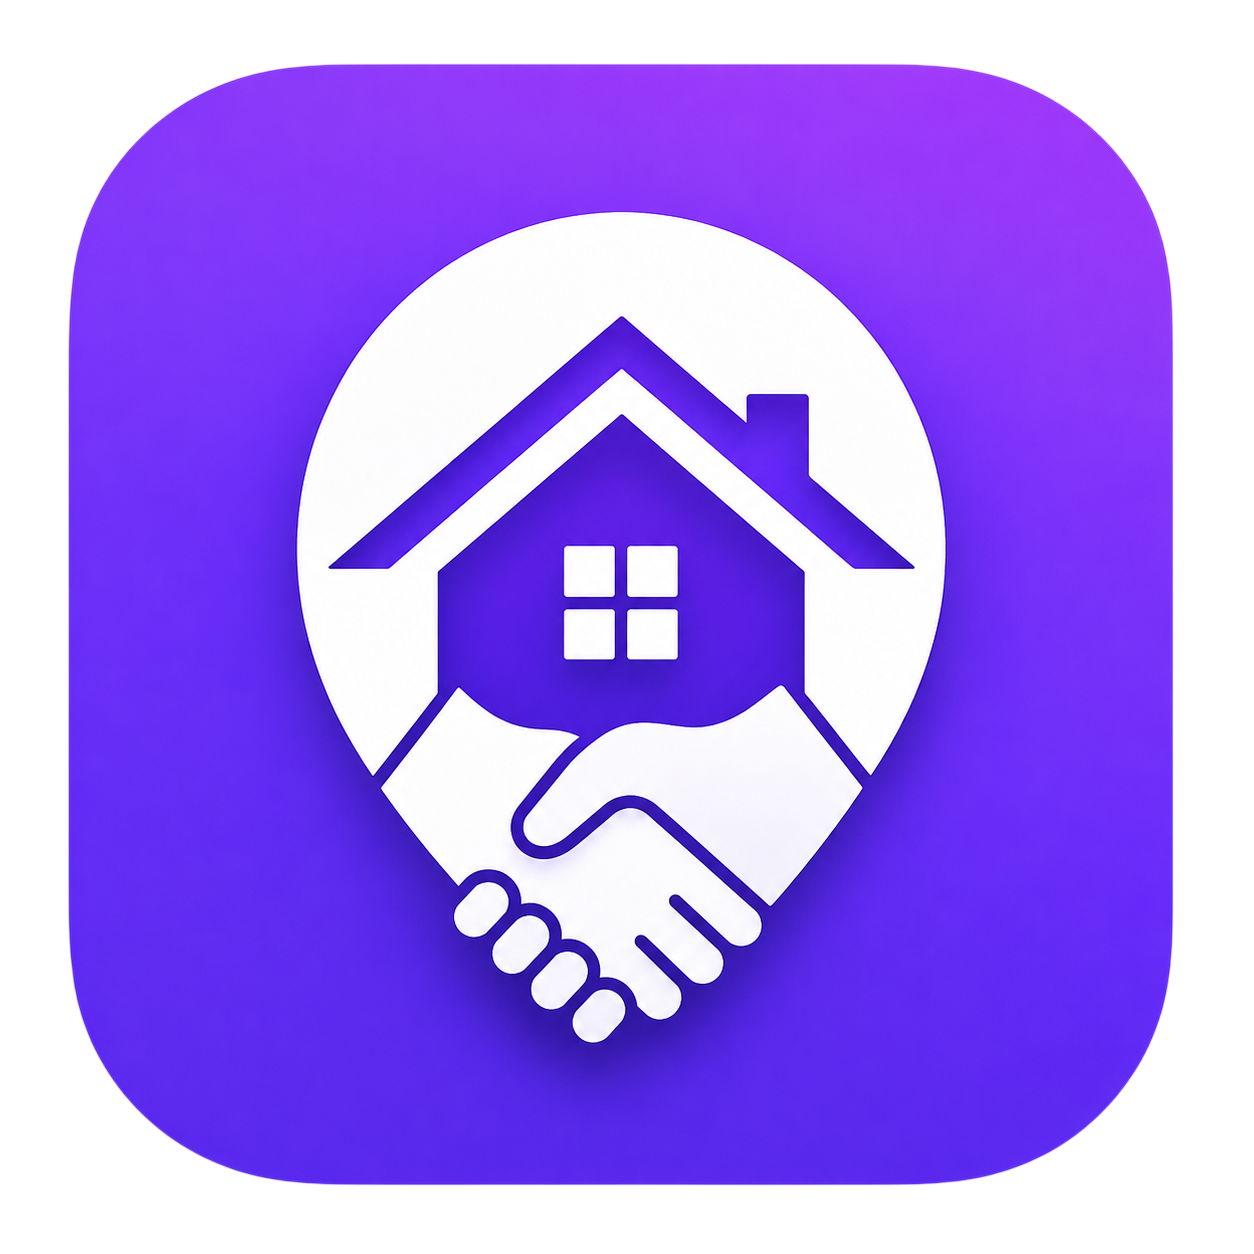
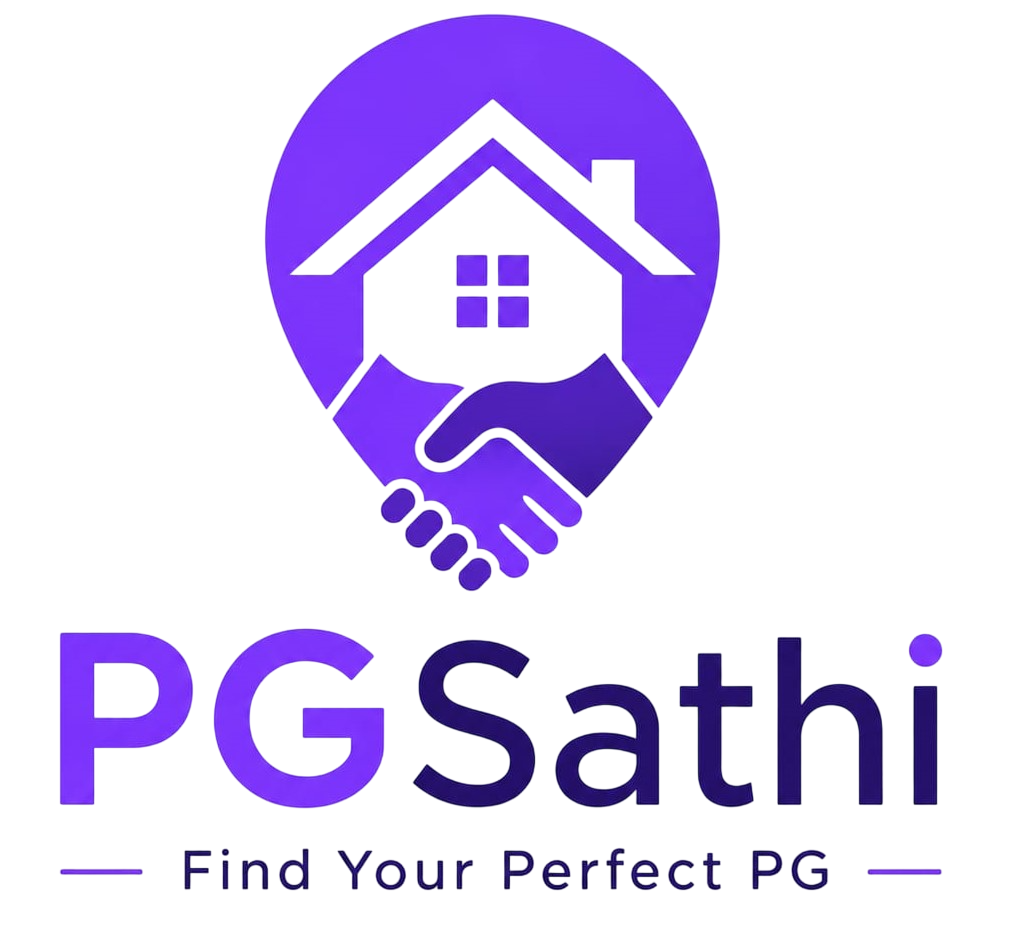
feat: implement authentication pages, dashboard layouts, and login functionality

diff --git a/app/(auth)/register/page.tsx b/app/(auth)/register/page.tsx
@@ -2,6 +2,8 @@
 
 import { useState, Suspense } from "react";
 import Link from "next/link";
+import Image from "next/image";
+import logoImg from "@/app/assets/logo/logo.png";
 import { signIn } from "next-auth/react";
 import {
   Home,
@@ -106,12 +108,14 @@ function RegisterContent() {
 
         {/* Logo */}
         <Link href="/" className="relative z-10 flex items-center gap-3 group">
-          <div className="w-11 h-11 bg-gradient-to-br from-violet-500 to-orange-500 rounded-2xl flex items-center justify-center shadow-lg group-hover:scale-105 transition-transform">
-            <Home size={22} color="white" />
-          </div>
-          <span className="font-extrabold text-2xl text-white tracking-tight">
-            PGSathi
-          </span>
+          <Image 
+            src={logoImg} 
+            alt="PGSathi Logo" 
+            width={160}
+            height={56}
+            priority
+            className="h-14 w-auto object-contain brightness-0 invert group-hover:scale-105 transition-transform" 
+          />
         </Link>
 
         {/* Center */}
@@ -160,11 +164,18 @@ function RegisterContent() {
       {/* ── Right Panel ─────────────────────────────────────────── */}
       <div className="flex-1 flex flex-col justify-center items-center px-5 py-10 sm:px-10 lg:px-16">
         {/* Mobile Logo */}
-        <Link href="/" className="lg:hidden flex items-center gap-2.5 mb-8 group">
-          <div className="w-9 h-9 bg-gradient-to-br from-violet-600 to-orange-500 rounded-xl flex items-center justify-center shadow-md group-hover:scale-105 transition-transform">
-            <Home size={18} color="white" />
-          </div>
-          <span className="font-extrabold text-xl text-neutral-900">PGSathi</span>
+        <Link
+          href="/"
+          className="lg:hidden flex items-center gap-2.5 mb-8 group"
+        >
+          <Image 
+            src={logoImg} 
+            alt="PGSathi Logo" 
+            width={140}
+            height={48}
+            priority
+            className="h-10 w-auto object-contain mix-blend-multiply group-hover:scale-105 transition-transform" 
+          />
         </Link>
 
         <div className="w-full max-w-[420px]">
@@ -460,9 +471,14 @@ export default function RegisterPage() {
       fallback={
         <div className="min-h-screen flex items-center justify-center bg-neutral-50">
           <div className="flex flex-col items-center gap-3">
-            <div className="w-10 h-10 bg-gradient-to-br from-violet-600 to-orange-500 rounded-2xl flex items-center justify-center">
-              <Home size={20} color="white" />
-            </div>
+            <Image 
+              src={logoImg} 
+              alt="PGSathi Logo" 
+              width={140}
+              height={48}
+              priority
+              className="h-10 w-auto object-contain mix-blend-multiply" 
+            />
             <Loader2 size={24} className="animate-spin text-violet-600" />
           </div>
         </div>

diff --git a/app/(auth)/login/page.tsx b/app/(auth)/login/page.tsx
@@ -3,6 +3,8 @@
 import { useState, Suspense } from "react";
 import { useSearchParams } from "next/navigation";
 import Link from "next/link";
+import Image from "next/image";
+import logoImg from "@/app/assets/logo/logo.png";
 import { signIn } from "next-auth/react";
 import {
   Home,
@@ -149,12 +151,14 @@ function LoginContent() {
 
         {/* Logo */}
         <Link href="/" className="relative z-10 flex items-center gap-3 group">
-          <div className="w-11 h-11 bg-gradient-to-br from-violet-500 to-orange-500 rounded-2xl flex items-center justify-center shadow-lg group-hover:scale-105 transition-transform">
-            <Home size={22} color="white" />
-          </div>
-          <span className="font-extrabold text-2xl text-white tracking-tight">
-            PGSathi
-          </span>
+          <Image 
+            src={logoImg} 
+            alt="PGSathi Logo" 
+            width={160}
+            height={56}
+            priority
+            className="h-14 w-auto object-contain brightness-0 invert group-hover:scale-105 transition-transform" 
+          />
         </Link>
 
         {/* Center content */}
@@ -208,10 +212,14 @@ function LoginContent() {
           href="/"
           className="lg:hidden flex items-center gap-2.5 mb-8 group"
         >
-          <div className="w-9 h-9 bg-gradient-to-br from-violet-600 to-orange-500 rounded-xl flex items-center justify-center shadow-md group-hover:scale-105 transition-transform">
-            <Home size={18} color="white" />
-          </div>
-          <span className="font-extrabold text-xl text-neutral-900">PGSathi</span>
+          <Image 
+            src={logoImg} 
+            alt="PGSathi Logo" 
+            width={140}
+            height={48}
+            priority
+            className="h-10 w-auto object-contain mix-blend-multiply group-hover:scale-105 transition-transform" 
+          />
         </Link>
 
         <div className="w-full max-w-[420px]">
@@ -455,9 +463,14 @@ export default function LoginPage() {
       fallback={
         <div className="min-h-screen flex items-center justify-center bg-neutral-50">
           <div className="flex flex-col items-center gap-3">
-            <div className="w-10 h-10 bg-gradient-to-br from-violet-600 to-orange-500 rounded-2xl flex items-center justify-center">
-              <Home size={20} color="white" />
-            </div>
+            <Image 
+              src={logoImg} 
+              alt="PGSathi Logo" 
+              width={140}
+              height={48}
+              priority
+              className="h-10 w-auto object-contain mix-blend-multiply" 
+            />
             <Loader2 size={24} className="animate-spin text-violet-600" />
           </div>
         </div>

diff --git a/app/(auth)/forgot-password/page.tsx b/app/(auth)/forgot-password/page.tsx
@@ -2,6 +2,8 @@
 
 import { useState } from "react";
 import Link from "next/link";
+import Image from "next/image";
+import logoImg from "@/app/assets/logo/logo.png";
 import { Home, ArrowRight, Lock, CheckCircle } from "lucide-react";
 import { useRouter } from "next/navigation";
 
@@ -93,11 +95,15 @@ export default function ForgotPasswordPage() {
       <div className="hidden md:flex flex-col justify-center w-1/2 bg-primary-950 text-white p-12 lg:p-24 relative overflow-hidden">
         <div className="absolute inset-0 opacity-10" style={{ backgroundImage: "radial-gradient(circle at 2px 2px, white 1px, transparent 0)", backgroundSize: "32px 32px" }}></div>
         <div className="relative z-10">
-          <Link href="/" className="flex items-center gap-2 mb-12">
-            <div className="w-10 h-10 bg-gradient-to-br from-primary-500 to-secondary-500 rounded-xl flex items-center justify-center">
-              <Home size={24} color="white" />
-            </div>
-            <span className="font-extrabold text-2xl tracking-tight">PGSathi</span>
+          <Link href="/" className="flex items-center gap-2 mb-12 group">
+            <Image 
+              src={logoImg} 
+              alt="PGSathi Logo" 
+              width={160}
+              height={56}
+              priority
+              className="h-14 w-auto object-contain brightness-0 invert group-hover:scale-105 transition-transform" 
+            />
           </Link>
           <h1 className="text-4xl lg:text-5xl font-bold leading-tight mb-6 text-white">
             Securely reset your password.
@@ -113,11 +119,15 @@ export default function ForgotPasswordPage() {
         <div className="w-full max-w-md mx-auto">
           
           {/* Mobile Logo */}
-          <Link href="/" className="flex md:hidden items-center gap-2 mb-8 justify-center">
-            <div className="w-8 h-8 bg-gradient-to-br from-primary-600 to-secondary-600 rounded-lg flex items-center justify-center">
-              <Home size={20} color="white" />
-            </div>
-            <span className="font-extrabold text-xl text-primary-950">PGSathi</span>
+          <Link href="/" className="flex md:hidden items-center gap-2 mb-8 justify-center group">
+            <Image 
+              src={logoImg} 
+              alt="PGSathi Logo" 
+              width={140}
+              height={48}
+              priority
+              className="h-10 w-auto object-contain mix-blend-multiply group-hover:scale-105 transition-transform" 
+            />
           </Link>
 
           {step === "PHONE" && (

diff --git a/app/(dashboard)/dashboard/owner/layout.tsx b/app/(dashboard)/dashboard/owner/layout.tsx
@@ -4,6 +4,8 @@ import Link from "next/link";
 import { Building2 } from "lucide-react";
 import LogoutButton from "@/components/common/LogoutButton";
 import { OwnerSidebar } from "@/components/dashboard/OwnerSidebar";
+import Image from "next/image";
+import logoImg from "@/app/assets/logo/logo.png";
 
 export const metadata = {
   title: "Owner Dashboard - PGSathi",
@@ -34,11 +36,15 @@ export default async function OwnerDashboardLayout({
         <div className="container-max section-padding h-16 flex items-center justify-between">
           {/* Brand */}
           <Link href="/" className="flex items-center gap-2.5 group">
-            <div className="w-8 h-8 bg-gradient-to-br from-primary-500 to-primary-600 rounded-xl flex items-center justify-center shadow-sm group-hover:shadow-md transition-shadow">
-              <Building2 size={16} className="text-white" />
-            </div>
+            <Image 
+              src={logoImg} 
+              alt="PGSathi Logo" 
+              width={100}
+              height={36}
+              priority
+              className="h-8 w-auto object-contain mix-blend-multiply group-hover:scale-105 transition-transform" 
+            />
             <div className="flex items-baseline gap-1.5">
-              <span className="font-extrabold text-[15px] tracking-tight text-neutral-900">PGSathi</span>
               <span className="text-neutral-400 text-xs font-medium">/ Owner</span>
             </div>
           </Link>

diff --git a/app/(dashboard)/dashboard/tenant/layout.tsx b/app/(dashboard)/dashboard/tenant/layout.tsx
@@ -3,7 +3,8 @@ import { auth } from "@/lib/auth";
 import Link from "next/link";
 import { LayoutDashboard, Heart, CalendarClock, Receipt, Settings, User } from "lucide-react";
 import LogoutButton from "@/components/common/LogoutButton";
-
+import Image from "next/image";
+import logoImg from "@/app/assets/logo/logo.png";
 export const metadata = {
   title: "Tenant Dashboard - PGSathi",
 };
@@ -42,12 +43,16 @@ export default async function TenantDashboardLayout({
         <div className="container-max section-padding h-16 flex items-center justify-between">
           {/* Brand */}
           <Link href="/" className="flex items-center gap-2.5">
-            <div className="w-8 h-8 bg-gradient-to-br from-violet-600 to-violet-500 rounded-xl flex items-center justify-center shadow-sm">
-              <User size={16} className="text-white" />
-            </div>
+            <Image 
+              src={logoImg} 
+              alt="PGSathi Logo" 
+              width={100}
+              height={36}
+              priority
+              className="h-8 w-auto object-contain mix-blend-multiply" 
+            />
             <div>
-              <span className="font-extrabold text-sm text-neutral-900">PGSathi</span>
-              <span className="text-neutral-400 text-xs ml-1">/ Tenant</span>
+              <span className="text-neutral-400 text-xs ml-1 font-medium">/ Tenant</span>
             </div>
           </Link>
 

diff --git a/app/(dashboard)/dashboard/admin/layout.tsx b/app/(dashboard)/dashboard/admin/layout.tsx
@@ -3,6 +3,8 @@ import { auth } from "@/lib/auth";
 import Link from "next/link";
 import { LayoutDashboard, ShieldCheck, Users, PieChart, Settings } from "lucide-react";
 import LogoutButton from "@/components/common/LogoutButton";
+import Image from "next/image";
+import logoImg from "@/app/assets/logo/logo.png";
 
 export const metadata = {
   title: "Admin Dashboard - PGSathi",
@@ -40,12 +42,16 @@ export default async function AdminDashboardLayout({
         <div className="container-max section-padding h-16 flex items-center justify-between">
           {/* Brand */}
           <Link href="/" className="flex items-center gap-2.5">
-            <div className="w-8 h-8 bg-gradient-to-br from-primary-600 to-primary-500 rounded-xl flex items-center justify-center shadow-sm">
-              <ShieldCheck size={16} className="text-white" />
-            </div>
+            <Image 
+              src={logoImg} 
+              alt="PGSathi Logo" 
+              width={100}
+              height={36}
+              priority
+              className="h-8 w-auto object-contain mix-blend-multiply" 
+            />
             <div>
-              <span className="font-extrabold text-sm text-neutral-900">PGSathi</span>
-              <span className="text-neutral-400 text-xs ml-1">/ Admin</span>
+              <span className="text-neutral-400 text-xs ml-1 font-medium">/ Admin</span>
             </div>
           </Link>
 

diff --git a/app/(dashboard)/dashboard/manager/layout.tsx b/app/(dashboard)/dashboard/manager/layout.tsx
@@ -14,7 +14,8 @@ import {
   ArrowRight,
 } from "lucide-react";
 import LogoutButton from "@/components/common/LogoutButton";
-
+import Image from "next/image";
+import logoImg from "@/app/assets/logo/logo.png";
 export const metadata = {
   title: "Manager Dashboard — PGSathi",
 };
@@ -68,12 +69,16 @@ export default async function ManagerDashboardLayout({
         <div className="container-max section-padding h-16 flex items-center justify-between">
           {/* Brand */}
           <Link href="/" className="flex items-center gap-2.5">
-            <div className="w-8 h-8 bg-gradient-to-br from-violet-600 to-orange-500 rounded-xl flex items-center justify-center">
-              <Building2 size={16} className="text-white" />
-            </div>
+            <Image 
+              src={logoImg} 
+              alt="PGSathi Logo" 
+              width={100}
+              height={36}
+              priority
+              className="h-8 w-auto object-contain mix-blend-multiply" 
+            />
             <div>
-              <span className="font-extrabold text-sm text-neutral-900">PGSathi</span>
-              <span className="text-neutral-400 text-xs ml-1">/ Manager</span>
+              <span className="text-neutral-400 text-xs ml-1 font-medium">/ Manager</span>
             </div>
           </Link>
 

diff --git a/app/(auth)/admin-portal-login/page.tsx b/app/(auth)/admin-portal-login/page.tsx
@@ -3,6 +3,8 @@
 import { useState, Suspense } from "react";
 import { useSearchParams } from "next/navigation";
 import Link from "next/link";
+import Image from "next/image";
+import logoImg from "@/app/assets/logo/logo.png";
 import { signIn } from "next-auth/react";
 import {
   Home,
@@ -58,12 +60,14 @@ function AdminLoginContent() {
         {/* Logo */}
         <div className="flex justify-center mb-8">
           <Link href="/" className="flex items-center gap-2 group">
-            <div className="w-10 h-10 bg-gradient-to-br from-violet-600 to-orange-500 rounded-xl flex items-center justify-center shadow-lg">
-              <Home size={20} color="white" />
-            </div>
-            <span className="font-extrabold text-2xl text-white tracking-tight">
-              PGSathi
-            </span>
+            <Image 
+              src={logoImg} 
+              alt="PGSathi Logo" 
+              width={160}
+              height={56}
+              priority
+              className="h-14 w-auto object-contain brightness-0 invert group-hover:scale-105 transition-transform" 
+            />
           </Link>
         </div>
 
